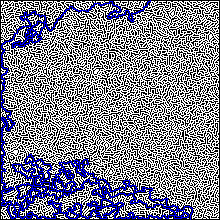
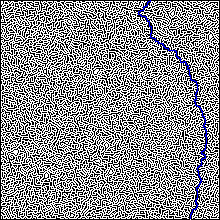
Added a bfs implementation
Generates a series of link to parents using a python dict.

diff --git a/Maze/Test Navigator.py b/Maze/Test Navigator.py
@@ -9,8 +9,34 @@ image = cv2.imread(png_input+".png")
 size = len(image)
 path = []
 
-def bfs(path):
+linked_dict={}
 
+def pathfinder(location):
+    while linked_dict[location]:
+        image[linked_dict[location][0]][linked_dict[location][1]][1] = 0
+        image[linked_dict[location][0]][linked_dict[location][1]][2] = 0
+        location = linked_dict[location]
+    return
+
+def bfs(location, path):
+    # generates a linked list using dictionaries of parents and ending once the exit is found
+    # then back tracing from the exit to the start
+    linked_dict[location] = []
+    location = (location[0]+1, location[1])
+    linked_dict[location] = (location[0]-1, location[1])
+    queue = [location]
+    while location[0] < size-1:
+        adjacent = [(location[0], location[1] - 1),(location[0] + 1, location[1]),(location[0], location[1] + 1),(location[0] - 1, location[1])]
+        for i in adjacent:
+            if i[0] < size and i[1] < size:
+                if i not in linked_dict and image[i[0]][i[1]][0] == 255 :
+                    queue.append(i)
+                    linked_dict[i] = location
+        queue.pop(0)
+        location = queue[0]
+
+    pathfinder(location)
+    
     return []
 
 def draw(path):
@@ -51,9 +77,12 @@ def main():
     global path
     location = (0,start(image)) #y,x
     print(location)
-
-    path = dfs(location, path)
-    draw(path)
+    
+    #path = dfs(location, path)
+    #draw(path)
+   
+    bfs(location, path)
+    
     cv2.imwrite(png_input+"Solve.png",image)
     print(process_time())
 
